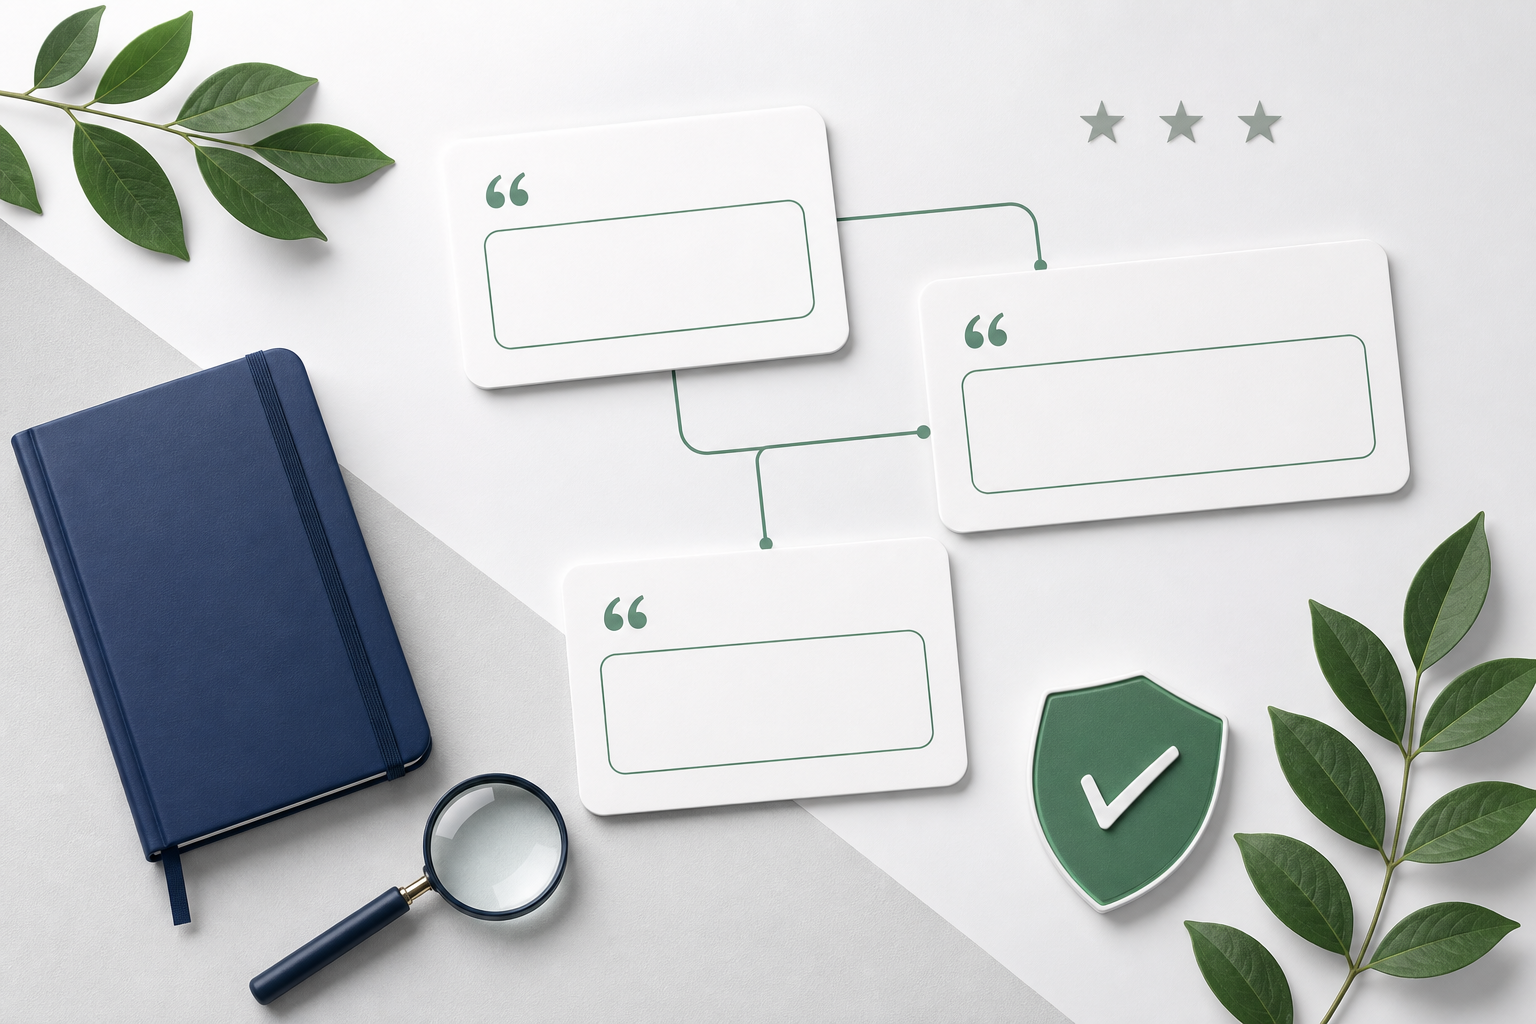
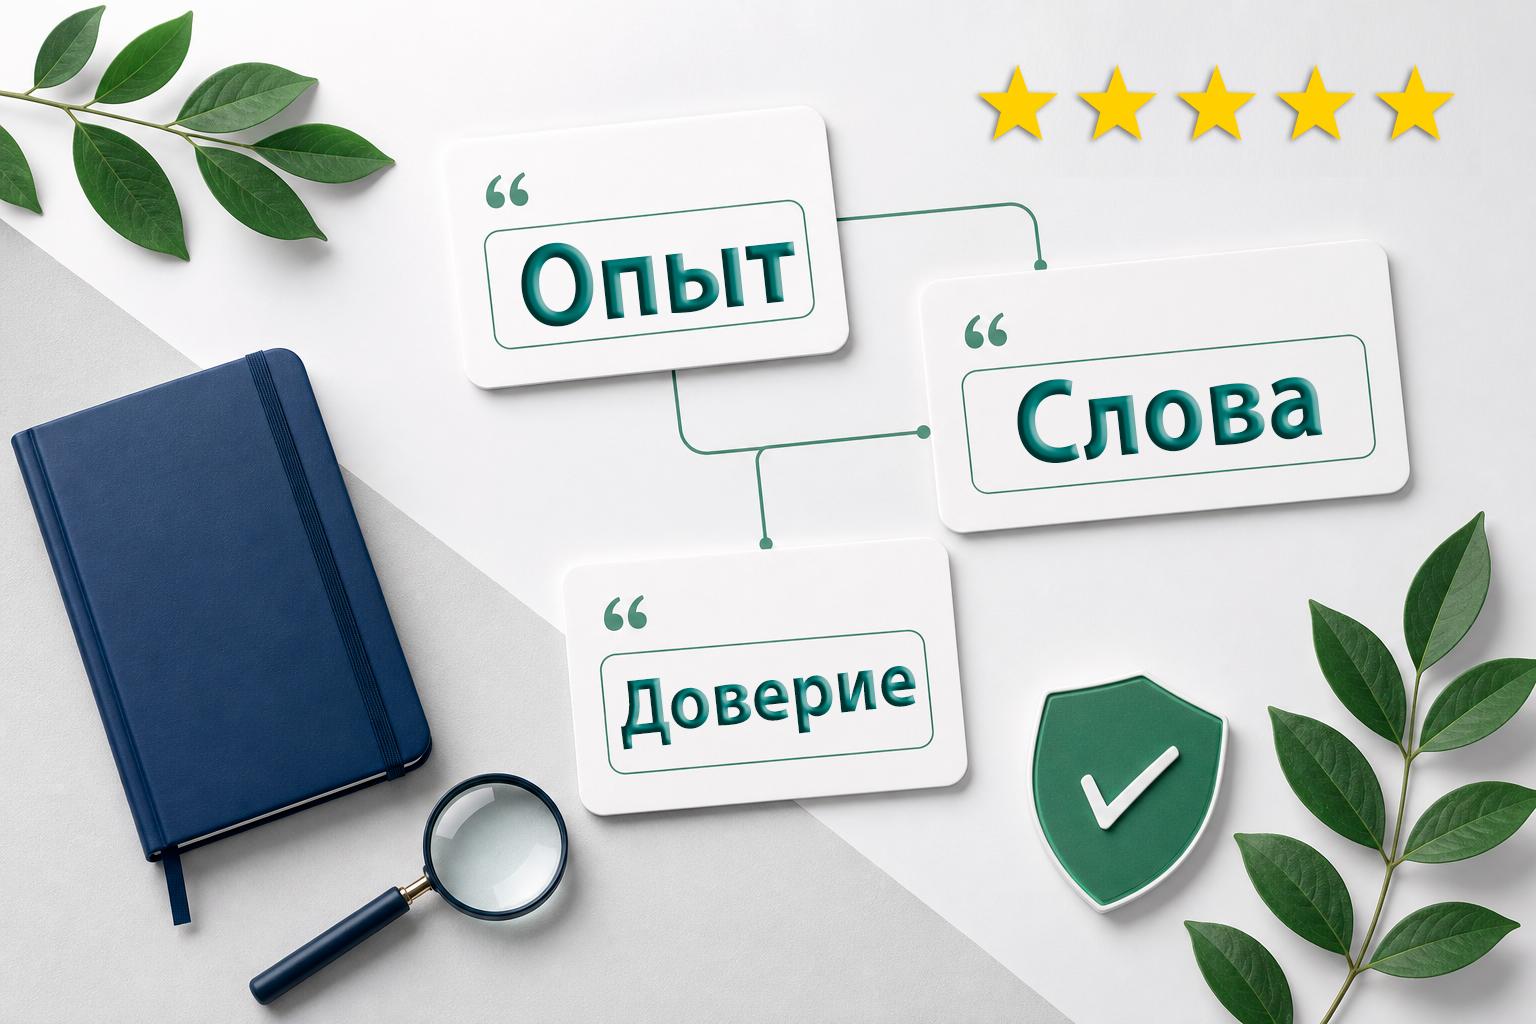
Заменена иллюстрация отзывов на версию с словами опыт / слова / доверие

diff --git a/scripts/assets/trust/otzyvy.html b/scripts/assets/trust/otzyvy.html
@@ -25,7 +25,7 @@
             src="/wp-content/uploads/sfrfr/brand/viz-otzyvy-16x9.png"
             width="1280"
             height="720"
-            alt="Спокойная иллюстрация: документы и порядок на столе"
+            alt="Опыт, слова, доверие — отзывы после проверки, без личных данных"
             loading="eager"
             decoding="async"
           />

diff --git a/docs/brand/visualizations/viz-otzyvy.md b/docs/brand/visualizations/viz-otzyvy.md
@@ -4,7 +4,7 @@
 **Платформа:** [brand-platform-v2.md](../brand-platform-v2.md)  
 **Формат:** обложка `/otzyvy/`  
 **Размер / пропорции:** 16:9  
-**Главный символ (один):** карточки цитат на столе, без «5 звёзд» и бонуса  
-**Статус:** на сайте (2026-08-15)  
-**Файл в assets/:** `viz-otzyvy-16x9.png`  
-**Подпись (вне картинки):** «Текст появится после проверки, без фамилии.»
+**Главный символ (один):** три карточки «Опыт → Слова → Доверие» на столе  
+**Статус:** на сайте (2026-08-29)  
+**Файл в assets/:** `viz-otzyvy-16x9.png` (канон; исходник со словами: `viz-otzyvy-16x9 опыт слова доверие.png`)  
+**Подпись (вне картинки):** «Отзывы публикуются только после проверки и без личных данных.»

diff --git a/docs/brand/assets/README.md b/docs/brand/assets/README.md
@@ -21,7 +21,7 @@
 | `viz-tarify-16x9.png` | `/tarify/` | на сайте |
 | `viz-kabinet-16x9.png` / `1x1` | кабинет / инструкция | запас |
 | `viz-kontakty-16x9.png` | `/kontakty/` | на сайте |
-| `viz-otzyvy-16x9.png` | `/otzyvy/` | на сайте |
+| `viz-otzyvy-16x9.png` | `/otzyvy/` | на сайте (слова: опыт / слова / доверие) |
 | `viz-stazh-do-2002-16x9.png` | `/stazh-do-2002/` | на сайте |
 | `viz-vk-community-cover-1920x768.png` | обложка сообщества ВК | **1920×768** (мин. ВК 960×384); не шаблон zip 911×364 |
 | `viz-meta-checklist-documents-1x1 хаос папки порядок.png` | посты / сбор документов | **Хаос → Папки → Порядок** (не диагностика) |
